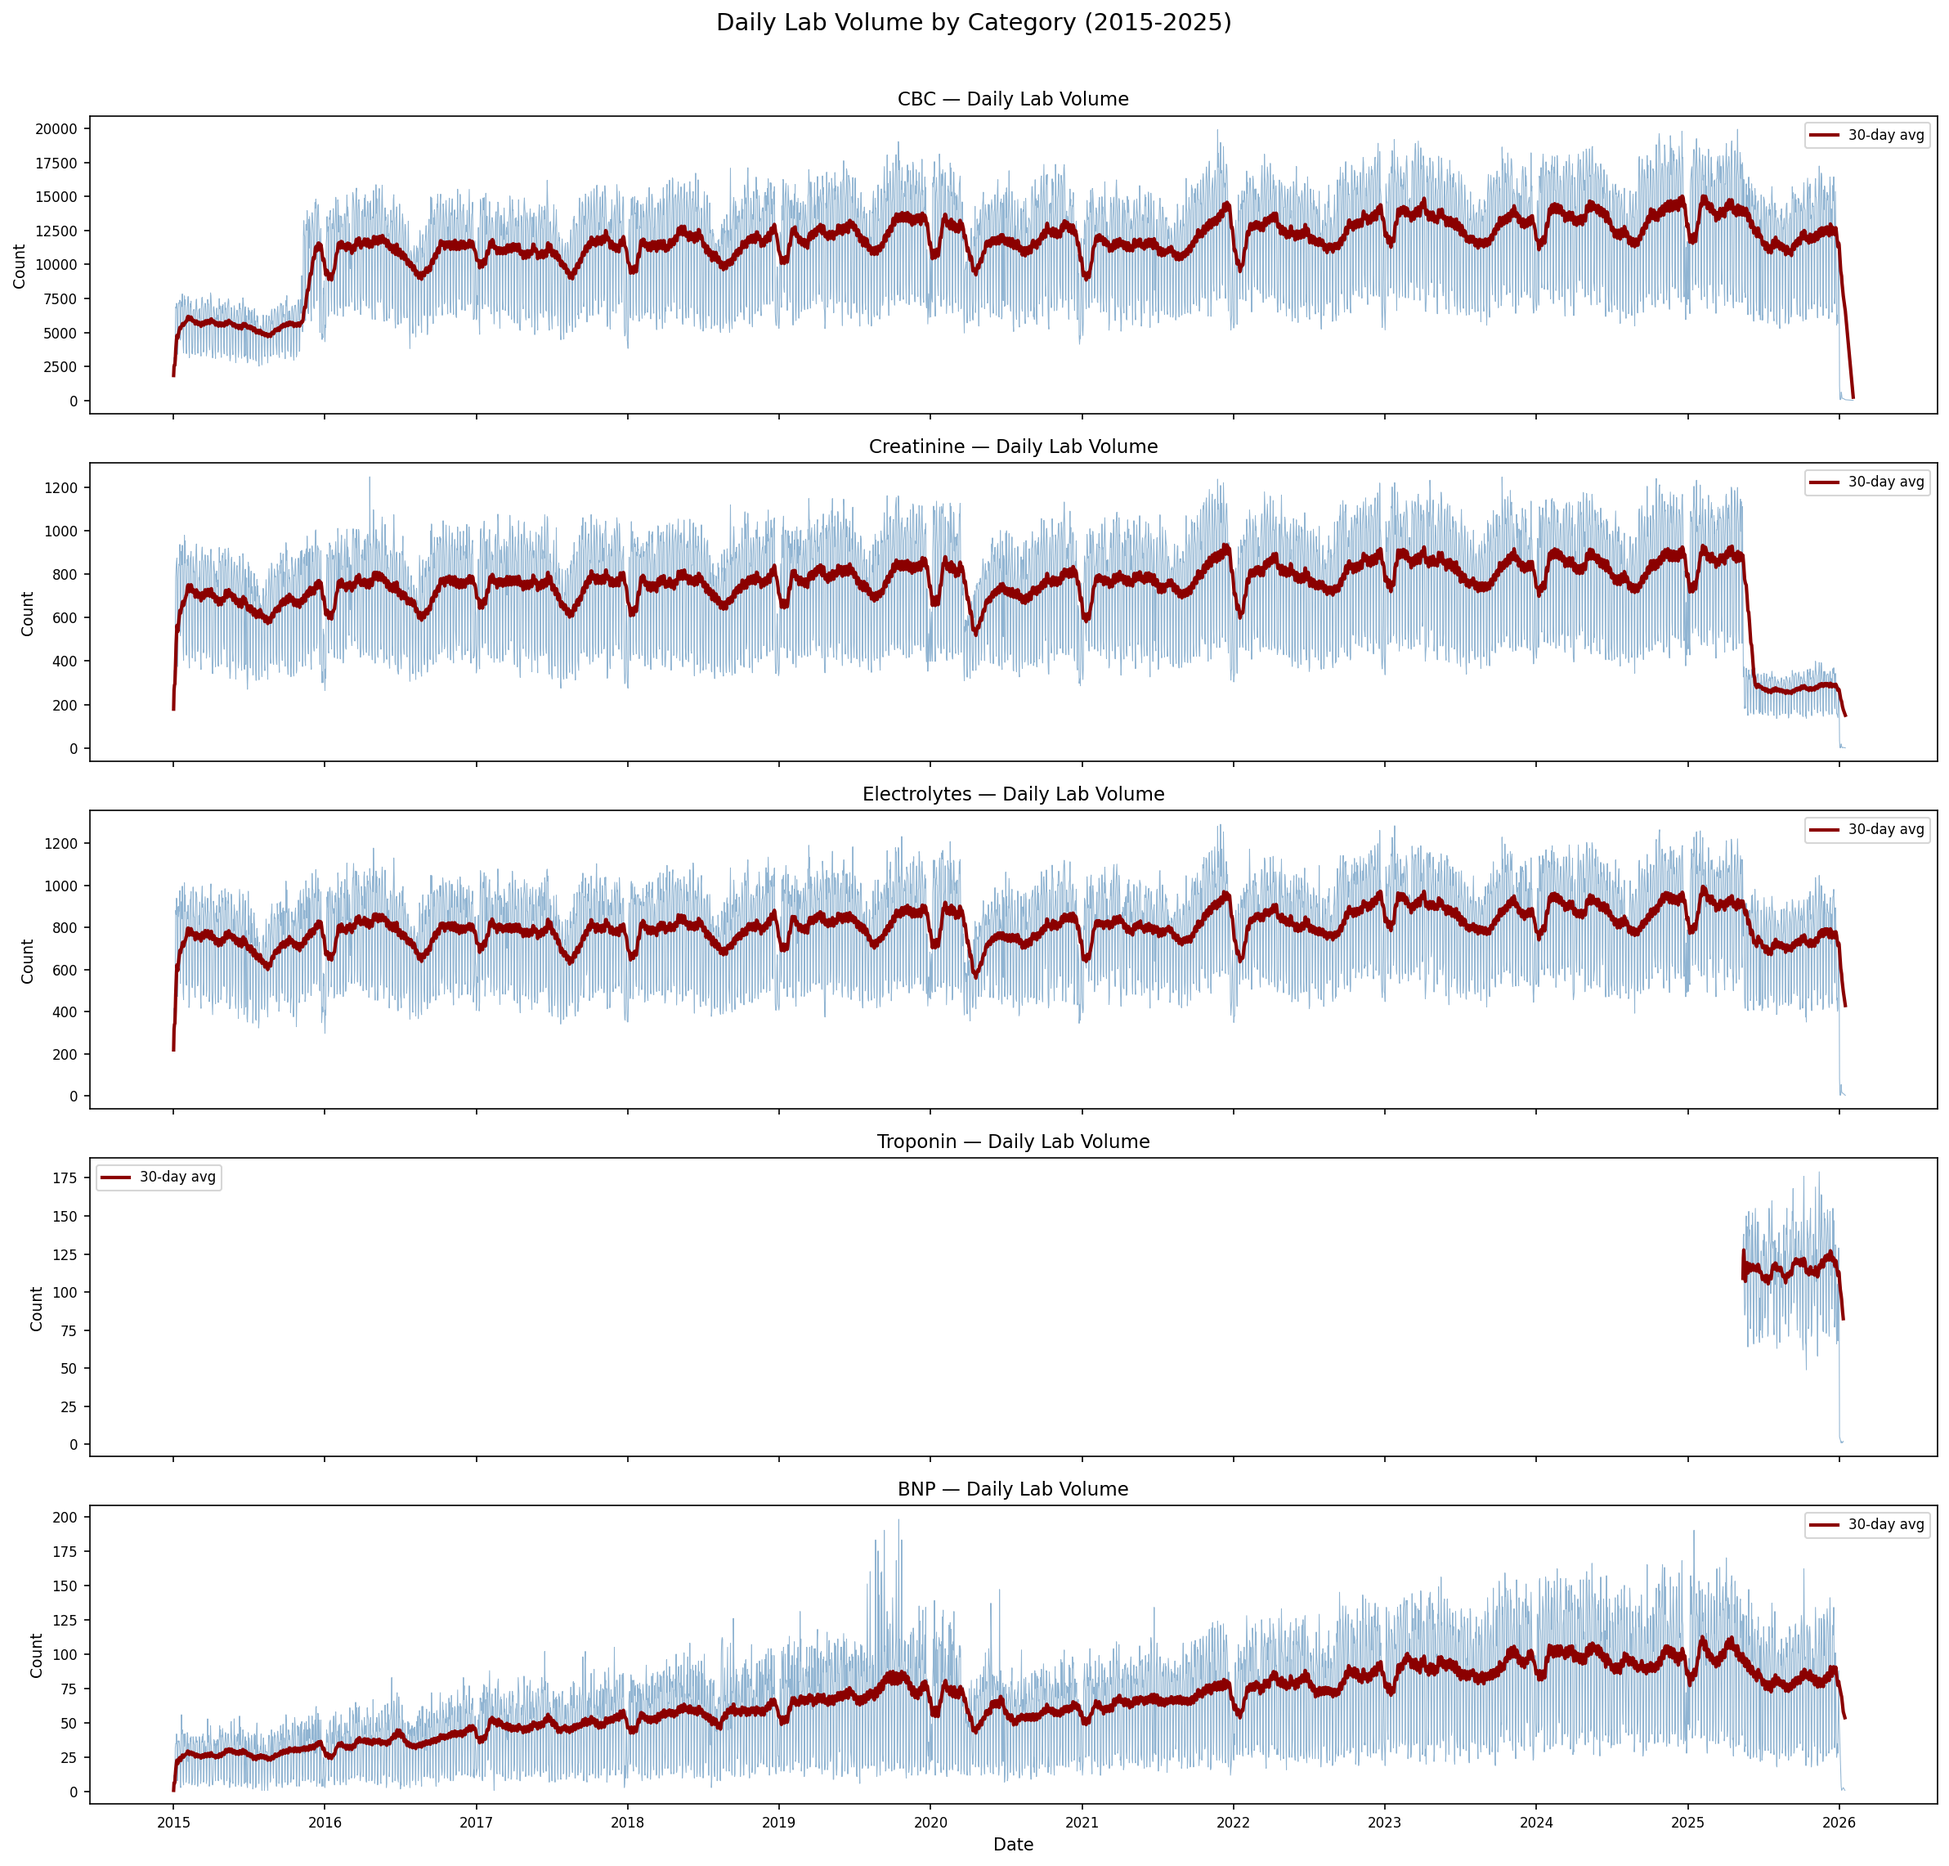
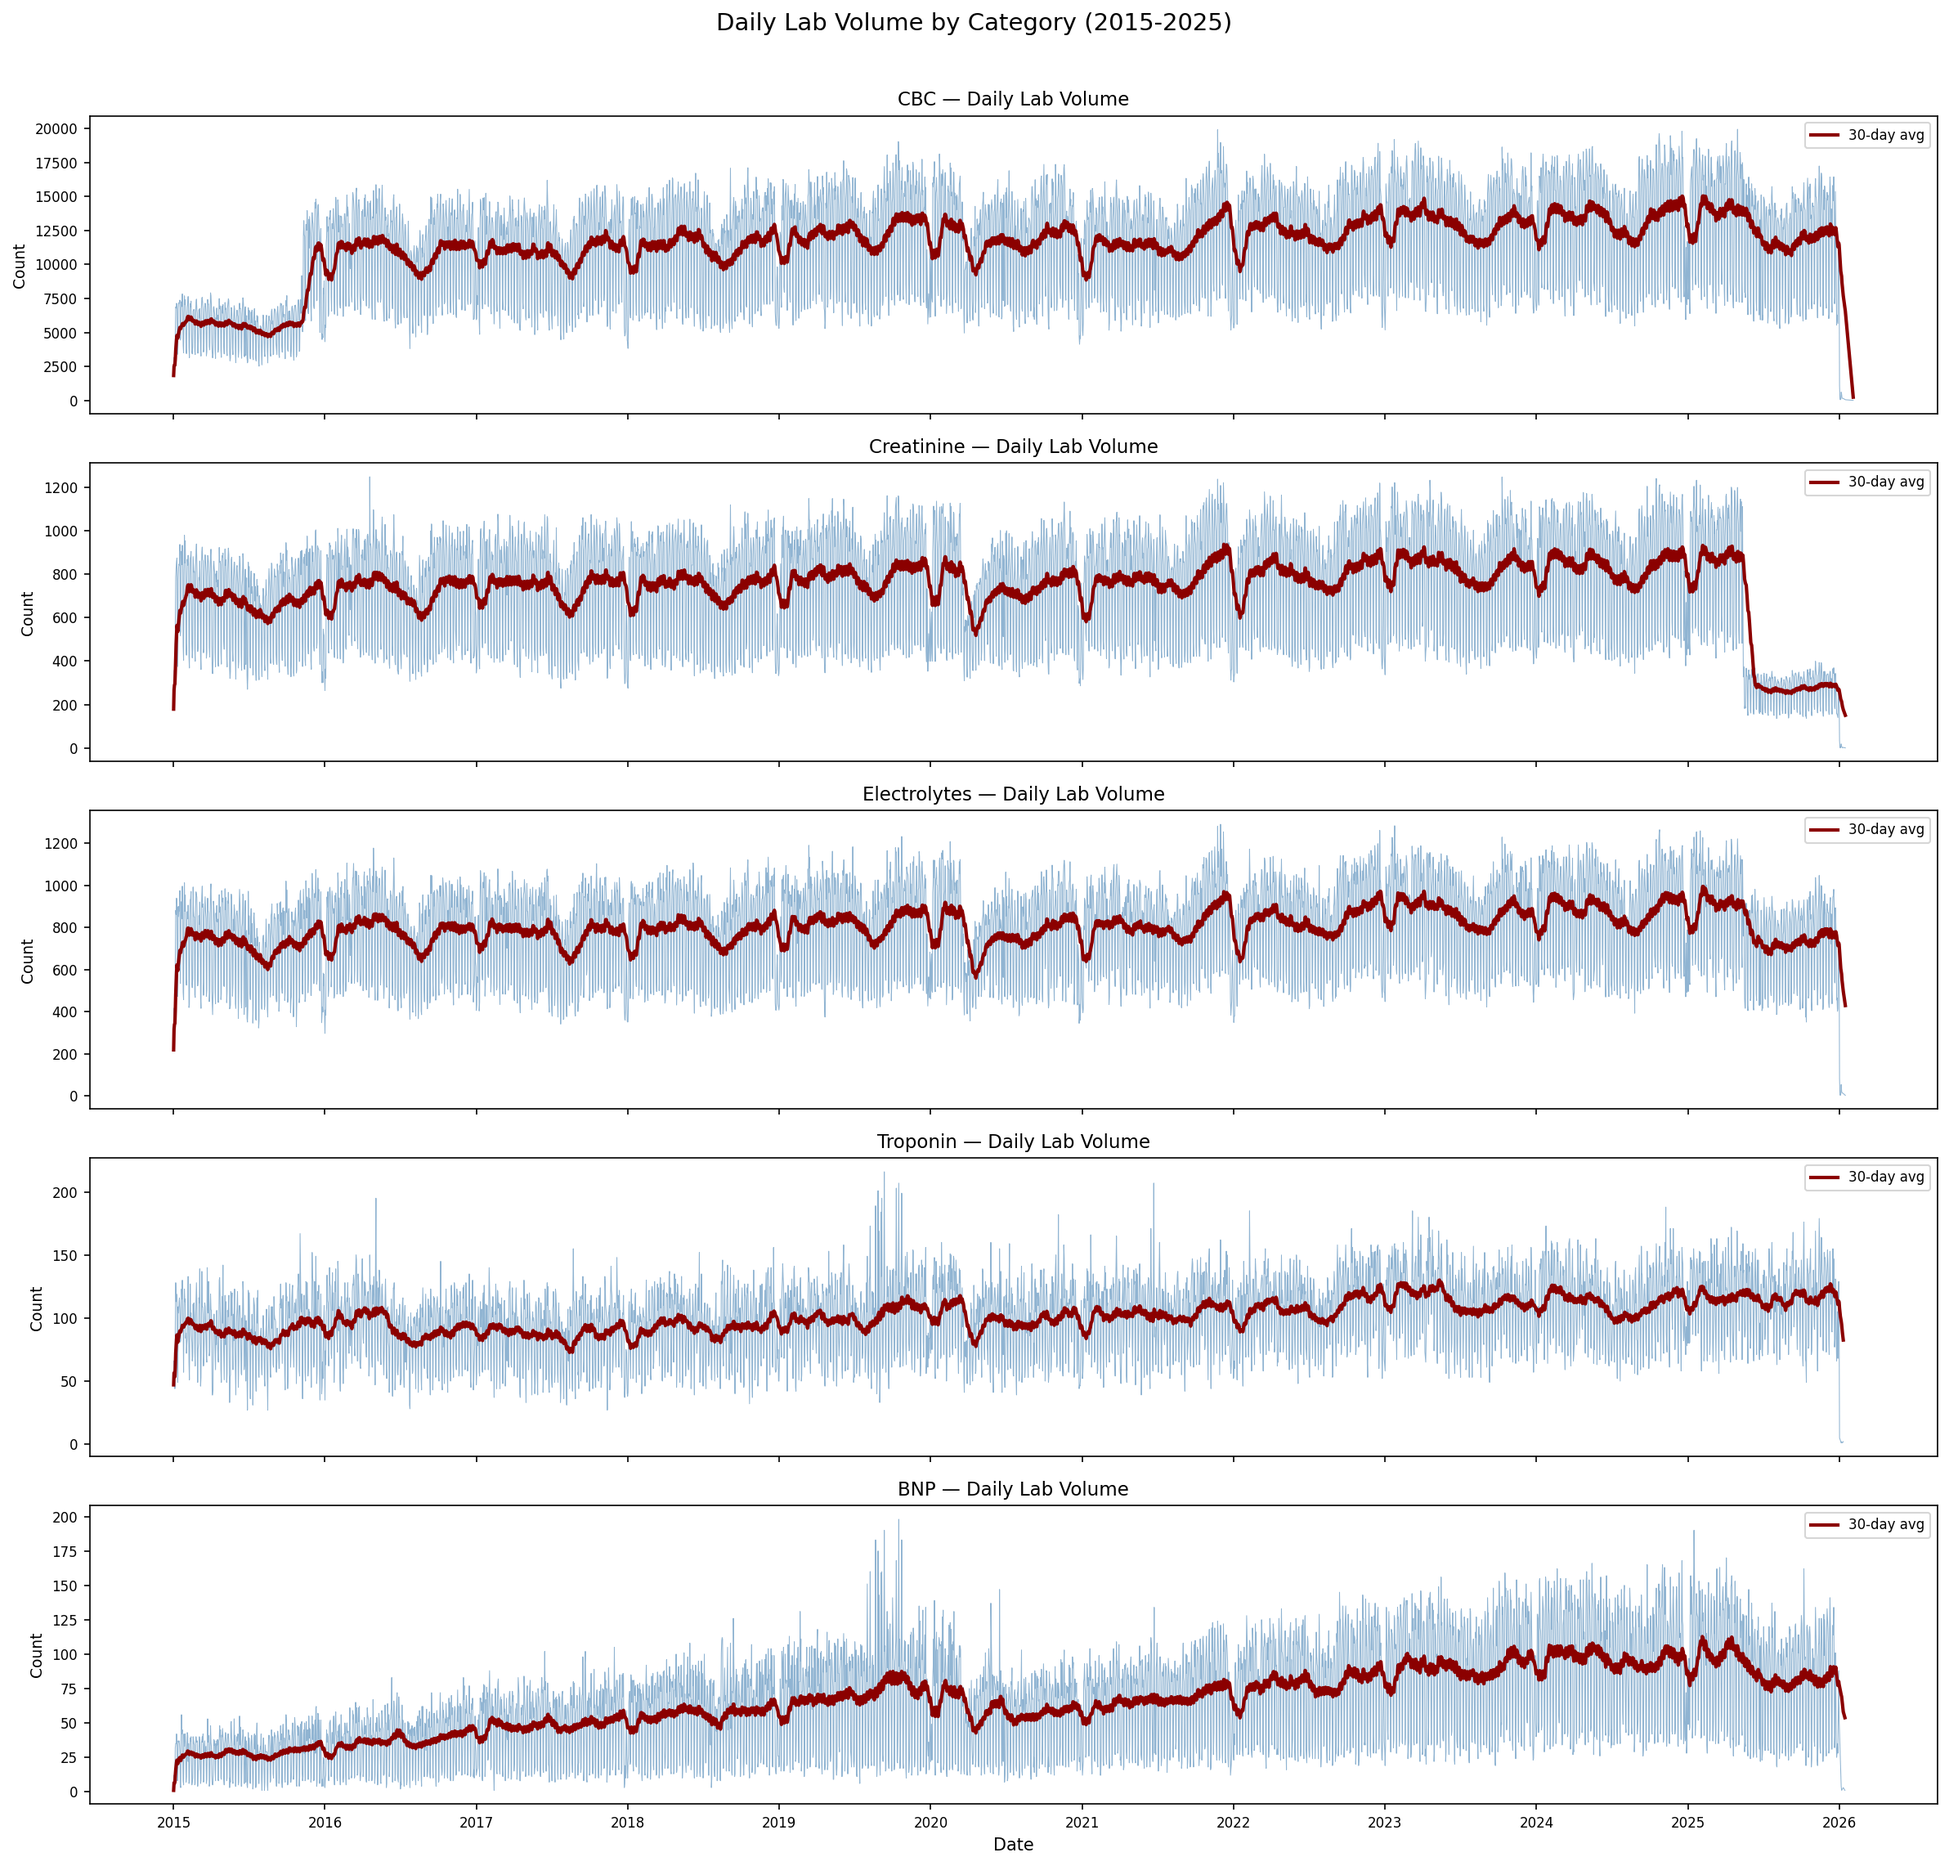
Add dedicated troponin TNT file (383K hs-Troponin T results)
Integrates Résultat_du_test_Troponines_TNT_Softlab_(2015_2025).xlsx
with GROUP_TEST_ID=TNT, TEST_ID=TNTH2 mapped to Troponin T (hs).
Troponin category: 27K -> 411K rows. Master: 54.2M rows total.

Changed region(s): [[0.0931, 0.6223, 0.9933, 0.7467], [0.031, 0.6223, 0.0931, 0.6534]]

diff --git a/build_master.py b/build_master.py
@@ -50,6 +50,7 @@ LAB_MAP = {
 
     # --- Troponin ---
     ("TTROP", "TROT"):  ("Troponin", "Troponin T"),
+    ("TNT",   "TNTH2"): ("Troponin", "Troponin T (hs)"),
 
     # --- BNP ---
     ("BNP",  "BNP2"):   ("BNP", "NT-proBNP"),
@@ -281,6 +282,11 @@ if __name__ == "__main__":
         (SRC / "Softlab extraction 21-23.xlsx", "softlab_21-23"),
         (SRC / "Softlab extraction 24-25.xlsx", "softlab_24-25"),
     ]
+    # Find troponin file (handles unicode in filename)
+    import glob as globmod
+    trop_files = globmod.glob(str(SRC / "*ropon*TNT*.xlsx"))
+    for tf in trop_files:
+        softlab_files.append((Path(tf), "troponin_tnt_15-25"))
     for fpath, tag in softlab_files:
         df = read_file_calamine(fpath, tag, is_silp=False)
         log(f"  Harmonizing {tag} ...")

diff --git a/plot_distributions.py b/plot_distributions.py
@@ -65,6 +65,7 @@ KEY_LABS = {
     "Neutrophils (abs)":   {"unit": "10*9/L",     "xlim": (0, 30),      "category": "CBC"},
     "Lymphocytes (abs)":   {"unit": "10*9/L",     "xlim": (0, 10),      "category": "CBC"},
     "Troponin T":          {"unit": "ng/L",       "xlim": (0, 500),     "category": "Troponin"},
+    "Troponin T (hs)":     {"unit": "ng/L",       "xlim": (0, 500),     "category": "Troponin"},
     "Sodium":              {"unit": "mmol/L",     "xlim": (110, 160),   "category": "Electrolytes"},
     "Potassium":           {"unit": "mmol/L",     "xlim": (2, 7),       "category": "Electrolytes"},
     "Chloride":            {"unit": "mmol/L",     "xlim": (80, 130),    "category": "Electrolytes"},
